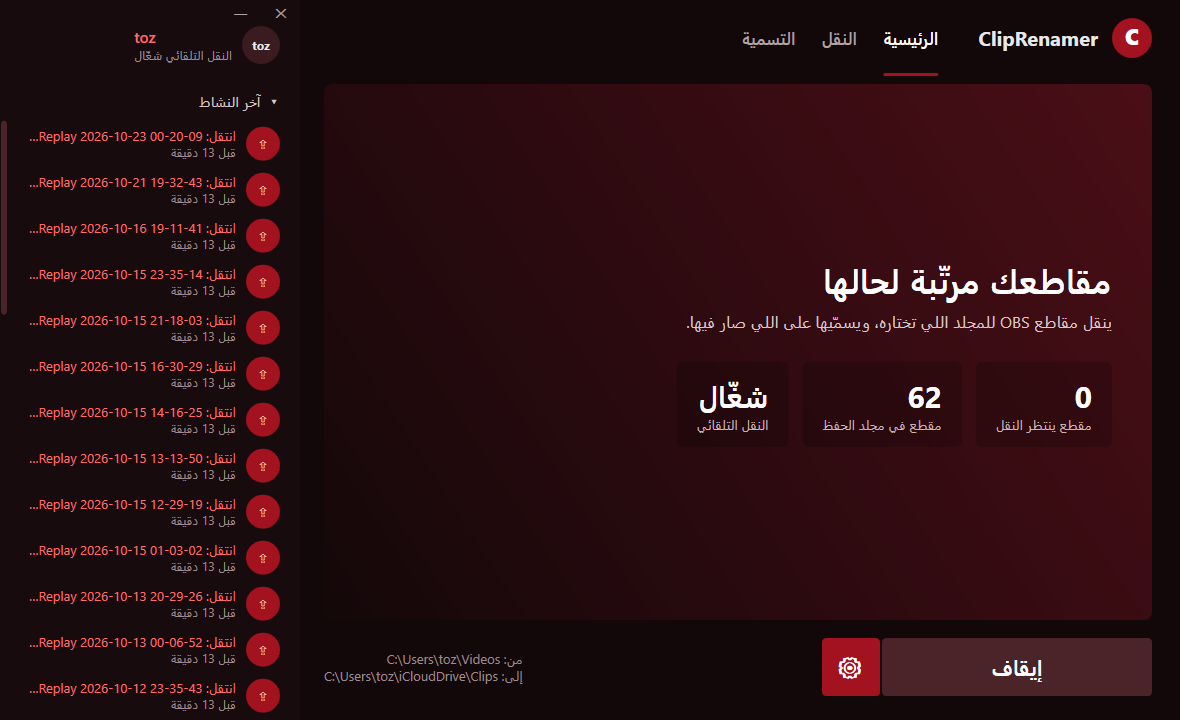
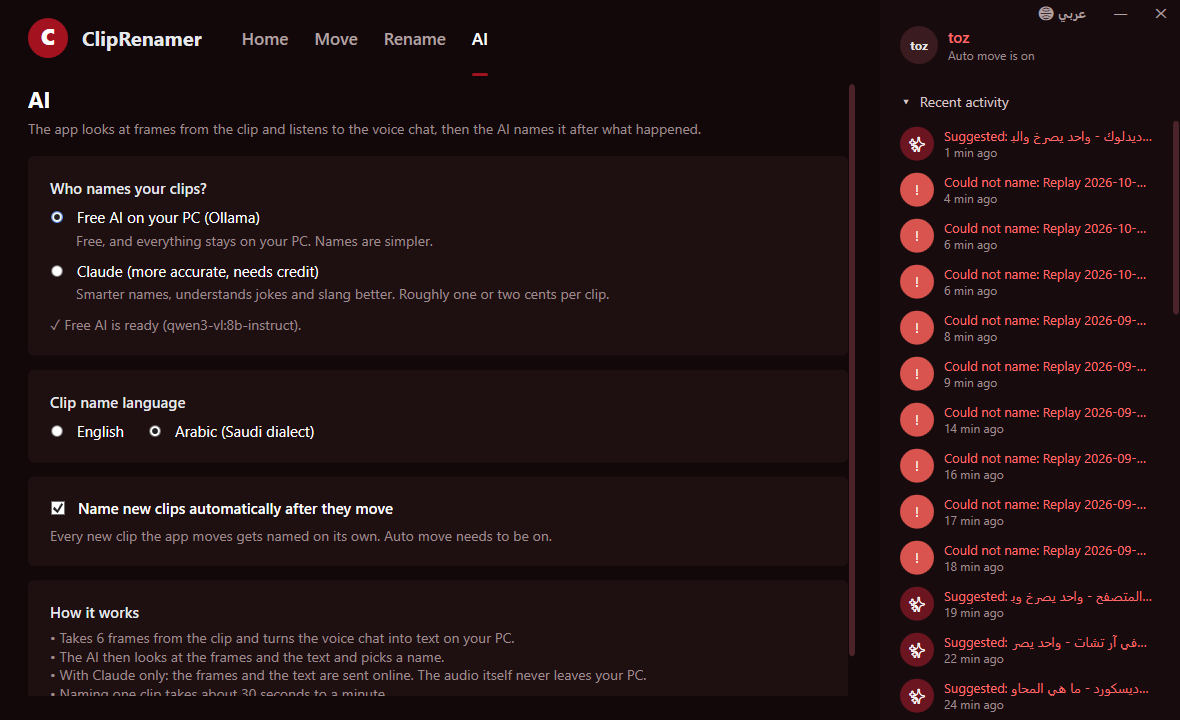
App in English and Arabic, clip names in English or Arabic
- 🌐 button switches the app between English and Arabic (right-to-left)
- AI page: choose the clip name language
- AI picks the game from a fixed list first, so it stops guessing wrong games
- Restarts Ollama if it stops mid-run; only one naming run at a time
- Named clips move to their own folder; delete works for iCloud files

diff --git a/README.md b/README.md
@@ -25,6 +25,7 @@ A Windows app that organizes your OBS clips for you:
 | 🎙 Understands voice chat | Turns speech into text on your PC with whisper |
 | 📁 Your folders | Choose where clips come from, where they go, and where named clips go |
 | 🗑 Delete | To the Recycle Bin, or to iCloud's "Recently Deleted" |
+| 🌐 Two languages | App in English or Arabic, clip names in English or Arabic |
 
 ## Getting started
 
@@ -51,9 +52,10 @@ A Windows app that organizes your OBS clips for you:
 - Speech is turned into text **on your PC**; the audio itself never leaves it.
 - With Claude only: 6 frames from the clip and the speech text are sent to Claude. With Ollama, nothing leaves your PC.
 
-## Note
+## Languages
 
-The app's interface is in Arabic.
+- The app comes in **English and Arabic**. Switch any time with the 🌐 button at the top.
+- Clip names can be written in **English** or **Arabic (Saudi dialect)**. Choose on the **AI** page.
 
 ## License
 
